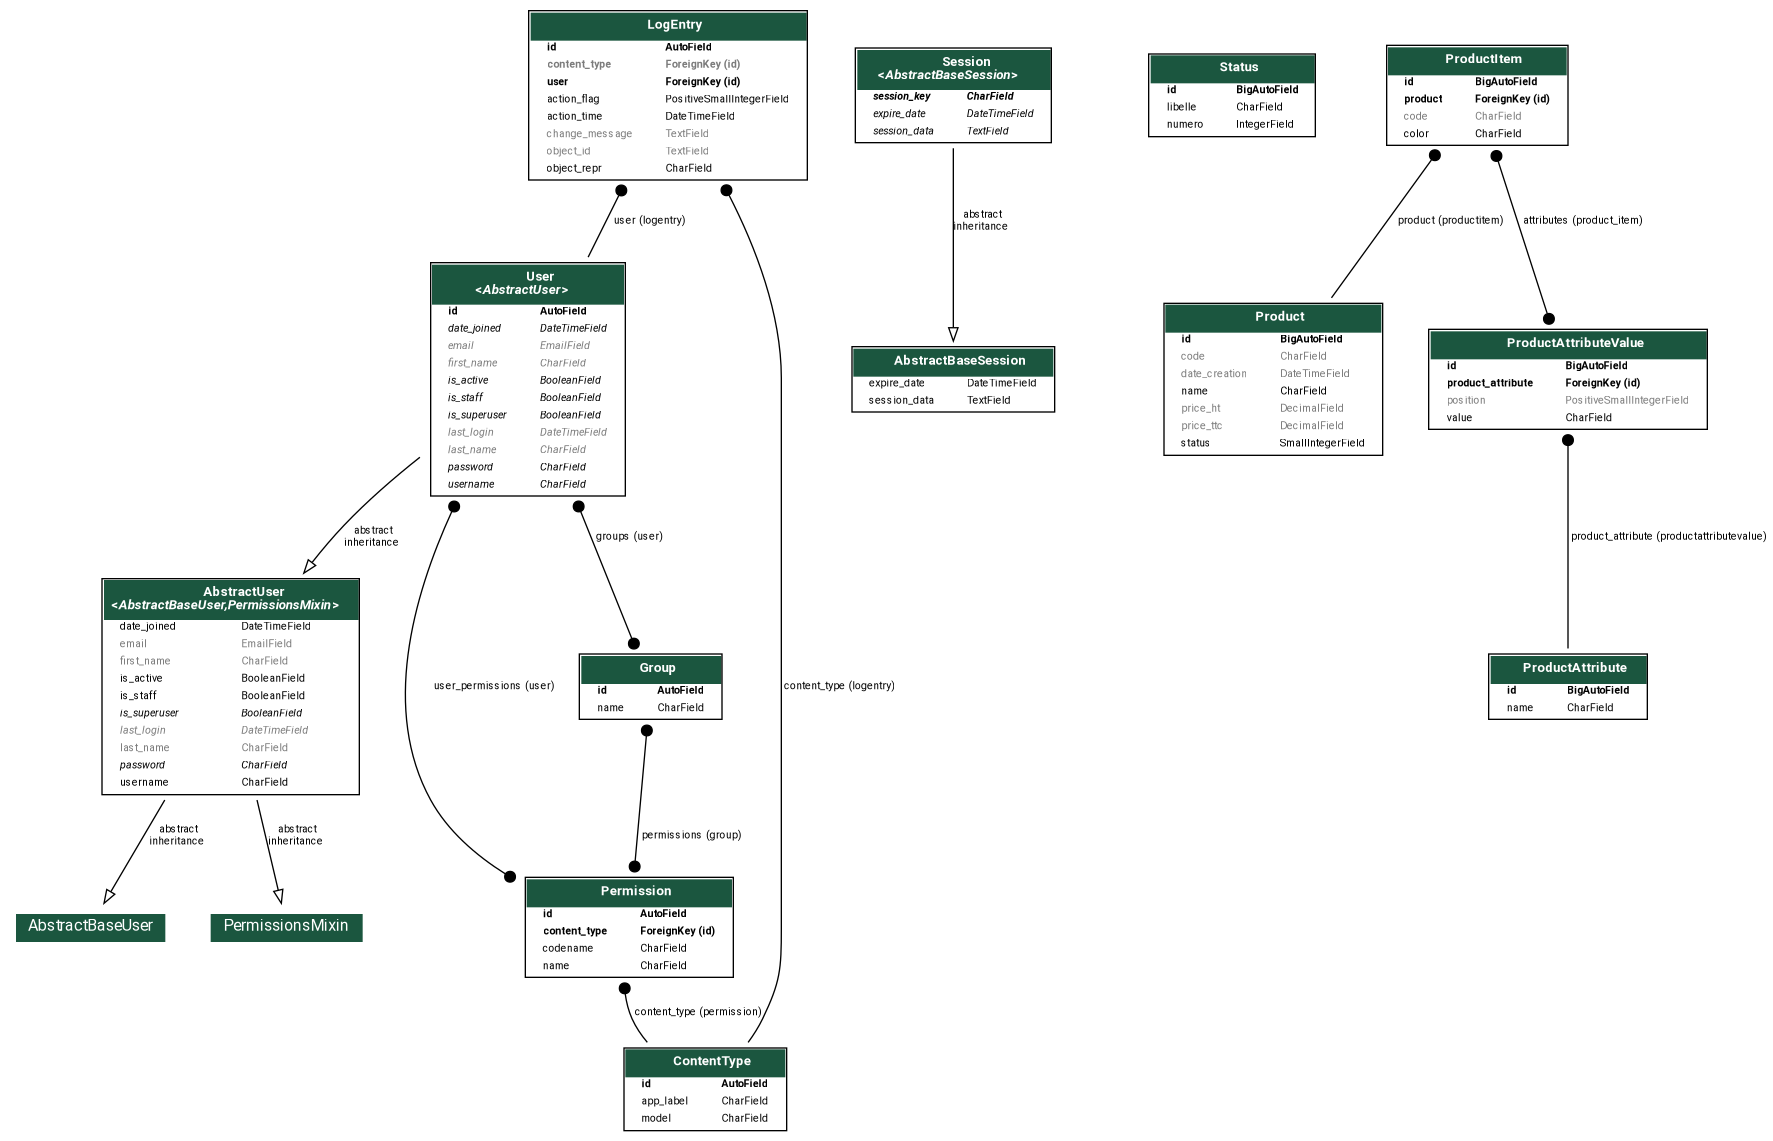
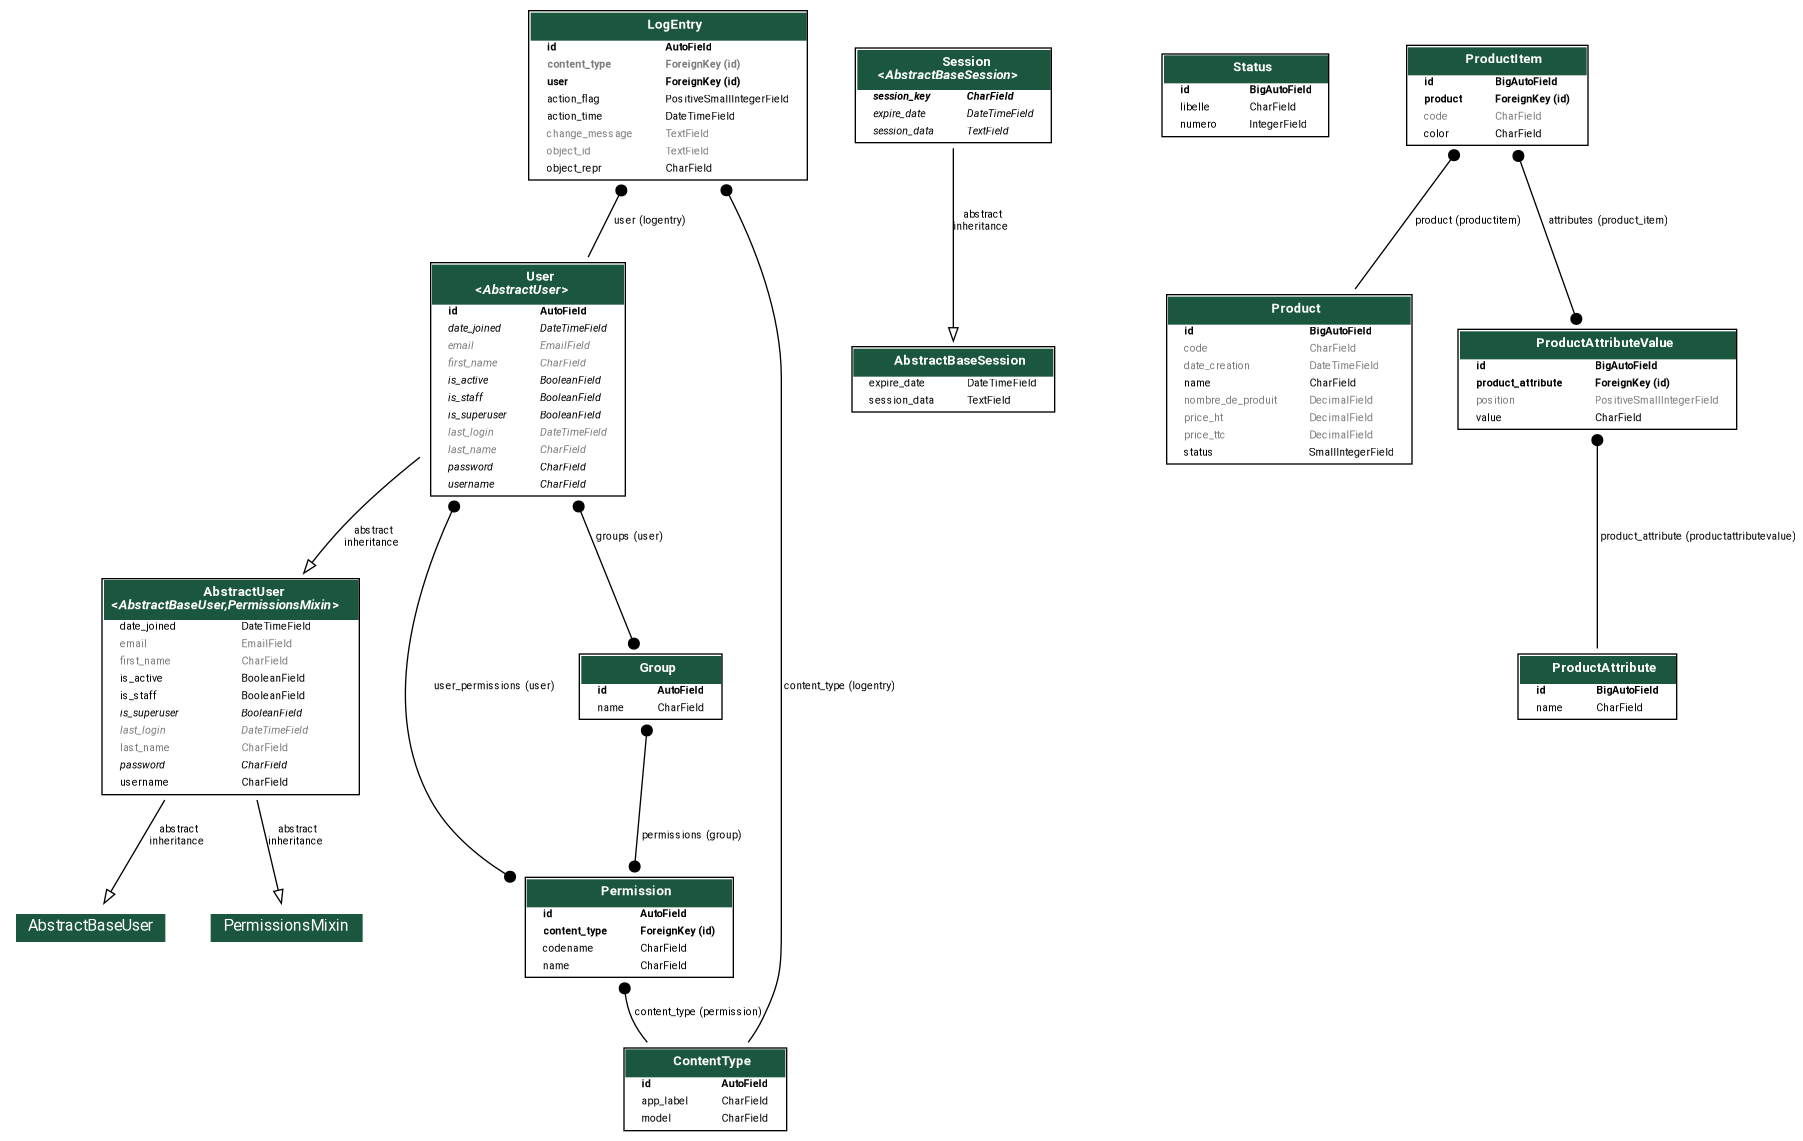
ajout de l'attribue nombre_de_produit et realisation de la migration

diff --git a/myTP1/app/models.py b/myTP1/app/models.py
@@ -35,6 +35,7 @@ class Product(models.Model):
     price_ttc     = models.DecimalField(max_digits=8, decimal_places=2,  null=True, blank=True, verbose_name="Prix unitaire TTC")
     status        = models.SmallIntegerField(choices=PRODUCT_STATUS, default=0)
     date_creation = models.DateTimeField(blank=True, verbose_name="Date création") 
+    nombre_de_produit = models.DecimalField(max_digits=8, decimal_places=2,  null=True, blank=True, verbose_name="Nombre de produits")
     #fields = '__all__'
     exclude = ('price_ttc', 'status')
     

diff --git a/myTP1/app/migrations/0002_product_nombre_de_produit.py b/myTP1/app/migrations/0002_product_nombre_de_produit.py
@@ -1,0 +1,18 @@
+# Generated by Django 5.1.1 on 2024-10-08 09:54
+
+from django.db import migrations, models
+
+
+class Migration(migrations.Migration):
+
+    dependencies = [
+        ('app', '0001_initial'),
+    ]
+
+    operations = [
+        migrations.AddField(
+            model_name='product',
+            name='nombre_de_produit',
+            field=models.DecimalField(blank=True, decimal_places=2, max_digits=8, null=True, verbose_name='Nombre de produits'),
+        ),
+    ]
